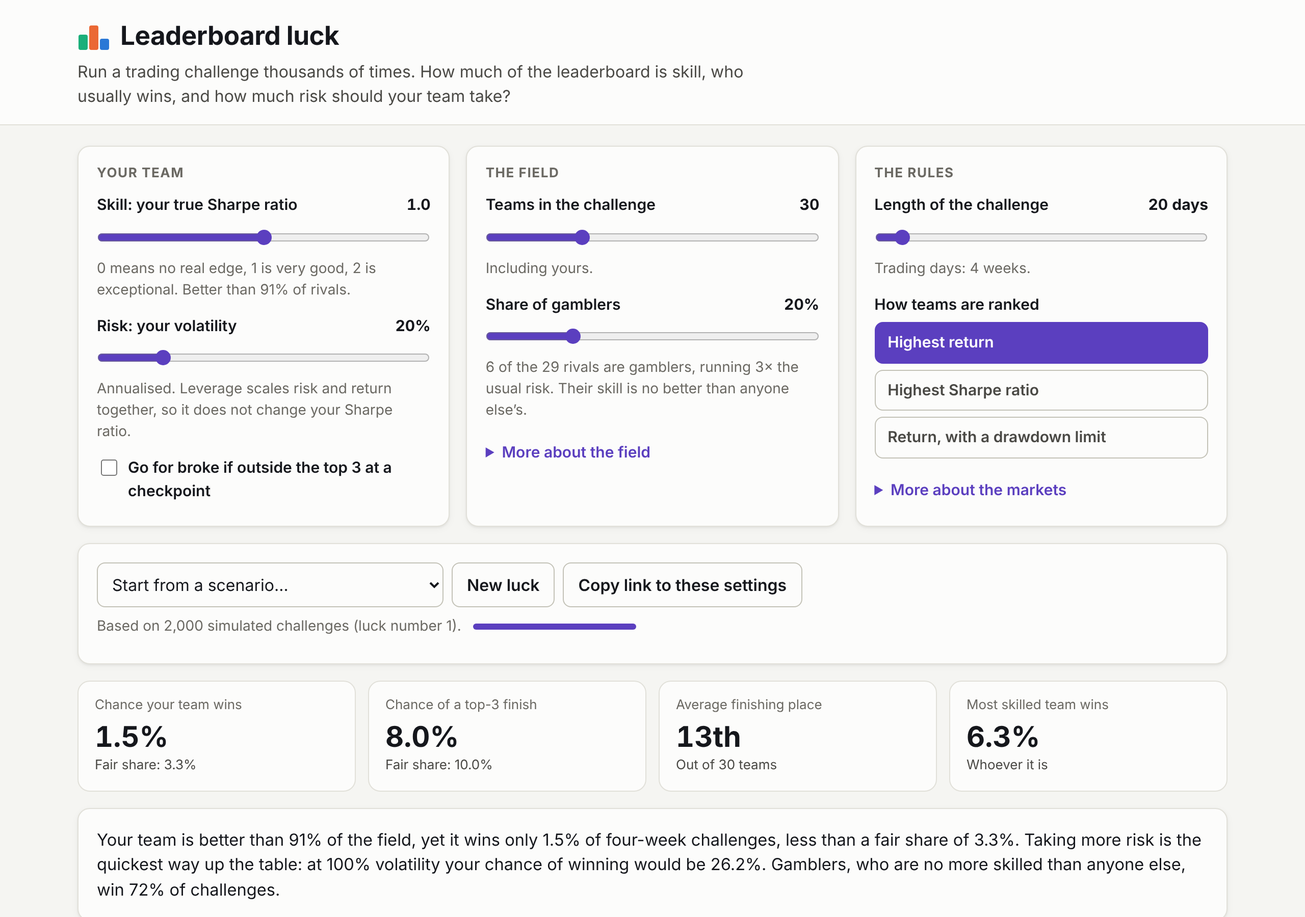
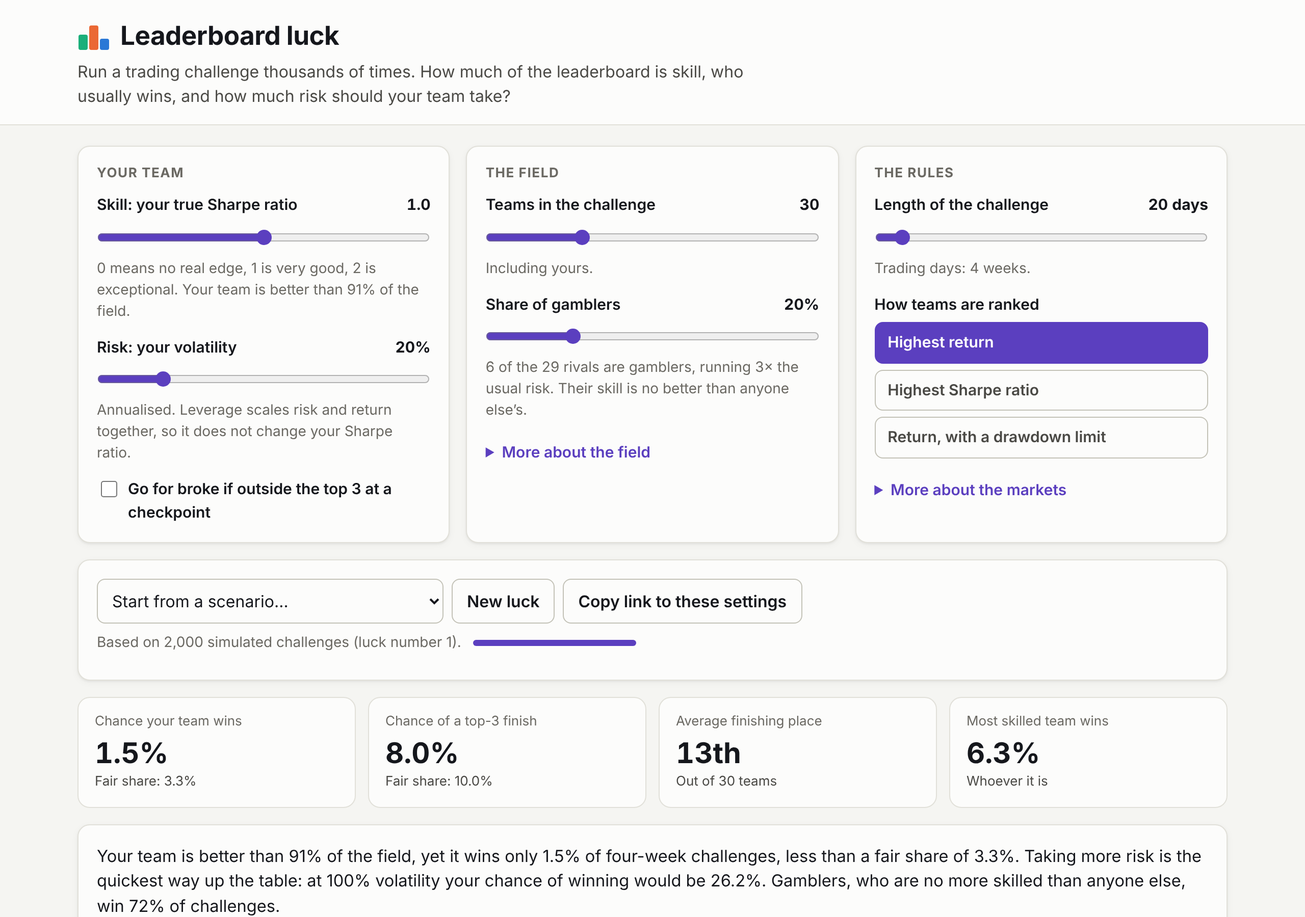
Extra audit: status under team names on phones, no ignored or abbreviated flags, luck number in every report, wording for extreme skill settings and loose drawdown limits

diff --git a/examples/design-report.html b/examples/design-report.html
@@ -25,10 +25,10 @@ li { margin-bottom: 6px; }
 </style></head>
 <body><main>
 <h1>How long before skill shows?</h1>
-<p class="lede">Each scoring rule simulated 400 times at seven lengths, from one week to a year of trading days.
+<p class="lede">Each scoring rule simulated 400 times (luck number 1) at seven lengths, from one week to a year of trading days.
 "Most skilled team wins" is how often the team with the highest true Sharpe ratio finishes first. Rank correlation
 measures how closely the whole final table follows true skill: 0 is pure luck, 1 is a perfect match.</p>
-<div class="card"><h2>What the numbers say</h2><ul><li>Ranking on Sharpe ratio picked out the most skilled team most often at 7 of the 7 lengths tested.</li><li>Over a year, the most skilled team won only 27% of challenges under the best rule, and final places matched true skill with a rank correlation of 0.64 (1 would be perfect).</li><li>Over four weeks, gamblers won 69% of return-ranked challenges against 17% ranked on Sharpe ratio, and the winner had no real edge in 34% of return-ranked ones.</li></ul></div>
+<div class="card"><h2>What the numbers say</h2><ul><li>Ranking on Sharpe ratio picked out the most skilled team most often at all 7 lengths tested.</li><li>Over a year, the most skilled team won only 27% of challenges under the best rule, and final places matched true skill with a rank correlation of 0.64 (1 would be perfect).</li><li>Over four weeks, gamblers won 69% of return-ranked challenges against 17% ranked on Sharpe ratio, and the winner had no real edge in 34% of return-ranked ones.</li></ul></div>
 <div class="card"><div class="legend"><span><i style="background:#6250d6"></i>Return</span><span><i style="background:#008300"></i>Sharpe ratio</span><span><i style="background:#e87ba4"></i>Return, 15% drawdown limit</span></div>
 <div class="grid"><div><h2>Most skilled team wins</h2><svg viewBox="0 0 460 240" width="100%" role="img" aria-label="Chance the most skilled team wins. Return: 1 week 0.04, 2 weeks 0.05, 4 weeks 0.07, 8 weeks 0.06, 12 weeks 0.11, 6 months 0.12, 1 year 0.18; Sharpe ratio: 1 week 0.06, 2 weeks 0.07, 4 weeks 0.08, 8 weeks 0.11, 12 weeks 0.14, 6 months 0.16, 1 year 0.27; Return, 15% drawdown limit: 1 week 0.04, 2 weeks 0.05, 4 weeks 0.07, 8 weeks 0.07, 12 weeks 0.14, 6 months 0.14, 1 year 0.21"><line x1="46" x2="438" y1="204.0" y2="204.0" stroke="var(--line)"/><text x="40" y="208.0" text-anchor="end">0%</text><line x1="46" x2="438" y1="156.0" y2="156.0" stroke="var(--line)"/><text x="40" y="160.0" text-anchor="end">10%</text><line x1="46" x2="438" y1="108.0" y2="108.0" stroke="var(--line)"/><text x="40" y="112.0" text-anchor="end">20%</text><line x1="46" x2="438" y1="60.0" y2="60.0" stroke="var(--line)"/><text x="40" y="64.0" text-anchor="end">30%</text><line x1="46" x2="438" y1="12.0" y2="12.0" stroke="var(--line)"/><text x="40" y="16.0" text-anchor="end">40%</text><text x="46.0" y="222" text-anchor="middle">1 week</text><text x="111.3" y="222" text-anchor="middle">2 weeks</text><text x="176.7" y="222" text-anchor="middle">4 weeks</text><text x="242.0" y="222" text-anchor="middle">8 weeks</text><text x="307.3" y="222" text-anchor="middle">12 weeks</text><text x="372.7" y="222" text-anchor="middle">6 months</text><text x="438.0" y="222" text-anchor="middle">1 year</text><path d="M46.0 182.4 L111.3 181.2 L176.7 170.4 L242.0 175.2 L307.3 152.4 L372.7 148.8 L438.0 115.2" fill="none" stroke="#6250d6" stroke-width="2.5"/><circle cx="46.0" cy="182.4" r="3.5" fill="#6250d6"><title>Return, 1 week: 0.045</title></circle><circle cx="111.3" cy="181.2" r="3.5" fill="#6250d6"><title>Return, 2 weeks: 0.048</title></circle><circle cx="176.7" cy="170.4" r="3.5" fill="#6250d6"><title>Return, 4 weeks: 0.070</title></circle><circle cx="242.0" cy="175.2" r="3.5" fill="#6250d6"><title>Return, 8 weeks: 0.060</title></circle><circle cx="307.3" cy="152.4" r="3.5" fill="#6250d6"><title>Return, 12 weeks: 0.107</title></circle><circle cx="372.7" cy="148.8" r="3.5" fill="#6250d6"><title>Return, 6 months: 0.115</title></circle><circle cx="438.0" cy="115.2" r="3.5" fill="#6250d6"><title>Return, 1 year: 0.185</title></circle><path d="M46.0 176.4 L111.3 172.8 L176.7 164.4 L242.0 151.2 L307.3 134.4 L372.7 128.4 L438.0 75.6" fill="none" stroke="#008300" stroke-width="2.5"/><circle cx="46.0" cy="176.4" r="3.5" fill="#008300"><title>Sharpe ratio, 1 week: 0.058</title></circle><circle cx="111.3" cy="172.8" r="3.5" fill="#008300"><title>Sharpe ratio, 2 weeks: 0.065</title></circle><circle cx="176.7" cy="164.4" r="3.5" fill="#008300"><title>Sharpe ratio, 4 weeks: 0.083</title></circle><circle cx="242.0" cy="151.2" r="3.5" fill="#008300"><title>Sharpe ratio, 8 weeks: 0.110</title></circle><circle cx="307.3" cy="134.4" r="3.5" fill="#008300"><title>Sharpe ratio, 12 weeks: 0.145</title></circle><circle cx="372.7" cy="128.4" r="3.5" fill="#008300"><title>Sharpe ratio, 6 months: 0.158</title></circle><circle cx="438.0" cy="75.6" r="3.5" fill="#008300"><title>Sharpe ratio, 1 year: 0.268</title></circle><path d="M46.0 182.4 L111.3 181.2 L176.7 169.2 L242.0 169.2 L307.3 136.8 L372.7 139.2 L438.0 103.2" fill="none" stroke="#e87ba4" stroke-width="2.5"/><circle cx="46.0" cy="182.4" r="3.5" fill="#e87ba4"><title>Return, 15% drawdown limit, 1 week: 0.045</title></circle><circle cx="111.3" cy="181.2" r="3.5" fill="#e87ba4"><title>Return, 15% drawdown limit, 2 weeks: 0.048</title></circle><circle cx="176.7" cy="169.2" r="3.5" fill="#e87ba4"><title>Return, 15% drawdown limit, 4 weeks: 0.072</title></circle><circle cx="242.0" cy="169.2" r="3.5" fill="#e87ba4"><title>Return, 15% drawdown limit, 8 weeks: 0.072</title></circle><circle cx="307.3" cy="136.8" r="3.5" fill="#e87ba4"><title>Return, 15% drawdown limit, 12 weeks: 0.140</title></circle><circle cx="372.7" cy="139.2" r="3.5" fill="#e87ba4"><title>Return, 15% drawdown limit, 6 months: 0.135</title></circle><circle cx="438.0" cy="103.2" r="3.5" fill="#e87ba4"><title>Return, 15% drawdown limit, 1 year: 0.210</title></circle></svg></div>
 <div><h2>Rank correlation with true skill</h2><svg viewBox="0 0 460 240" width="100%" role="img" aria-label="Rank correlation between true skill and final place. Return: 1 week 0.10, 2 weeks 0.14, 4 weeks 0.22, 8 weeks 0.30, 12 weeks 0.36, 6 months 0.47, 1 year 0.60; Sharpe ratio: 1 week 0.10, 2 weeks 0.16, 4 weeks 0.23, 8 weeks 0.32, 12 weeks 0.38, 6 months 0.50, 1 year 0.64; Return, 15% drawdown limit: 1 week 0.10, 2 weeks 0.14, 4 weeks 0.21, 8 weeks 0.27, 12 weeks 0.30, 6 months 0.33, 1 year 0.33"><line x1="46" x2="438" y1="204.0" y2="204.0" stroke="var(--line)"/><text x="40" y="208.0" text-anchor="end">0</text><line x1="46" x2="438" y1="156.0" y2="156.0" stroke="var(--line)"/><text x="40" y="160.0" text-anchor="end">0.2</text><line x1="46" x2="438" y1="108.0" y2="108.0" stroke="var(--line)"/><text x="40" y="112.0" text-anchor="end">0.4</text><line x1="46" x2="438" y1="60.0" y2="60.0" stroke="var(--line)"/><text x="40" y="64.0" text-anchor="end">0.6</text><line x1="46" x2="438" y1="12.0" y2="12.0" stroke="var(--line)"/><text x="40" y="16.0" text-anchor="end">0.8</text><text x="46.0" y="222" text-anchor="middle">1 week</text><text x="111.3" y="222" text-anchor="middle">2 weeks</text><text x="176.7" y="222" text-anchor="middle">4 weeks</text><text x="242.0" y="222" text-anchor="middle">8 weeks</text><text x="307.3" y="222" text-anchor="middle">12 weeks</text><text x="372.7" y="222" text-anchor="middle">6 months</text><text x="438.0" y="222" text-anchor="middle">1 year</text><path d="M46.0 179.7 L111.3 169.6 L176.7 152.4 L242.0 131.6 L307.3 118.2 L372.7 90.7 L438.0 60.6" fill="none" stroke="#6250d6" stroke-width="2.5"/><circle cx="46.0" cy="179.7" r="3.5" fill="#6250d6"><title>Return, 1 week: 0.101</title></circle><circle cx="111.3" cy="169.6" r="3.5" fill="#6250d6"><title>Return, 2 weeks: 0.143</title></circle><circle cx="176.7" cy="152.4" r="3.5" fill="#6250d6"><title>Return, 4 weeks: 0.215</title></circle><circle cx="242.0" cy="131.6" r="3.5" fill="#6250d6"><title>Return, 8 weeks: 0.302</title></circle><circle cx="307.3" cy="118.2" r="3.5" fill="#6250d6"><title>Return, 12 weeks: 0.358</title></circle><circle cx="372.7" cy="90.7" r="3.5" fill="#6250d6"><title>Return, 6 months: 0.472</title></circle><circle cx="438.0" cy="60.6" r="3.5" fill="#6250d6"><title>Return, 1 year: 0.598</title></circle><path d="M46.0 179.0 L111.3 165.9 L176.7 148.8 L242.0 127.7 L307.3 112.4 L372.7 83.7 L438.0 50.8" fill="none" stroke="#008300" stroke-width="2.5"/><circle cx="46.0" cy="179.0" r="3.5" fill="#008300"><title>Sharpe ratio, 1 week: 0.104</title></circle><circle cx="111.3" cy="165.9" r="3.5" fill="#008300"><title>Sharpe ratio, 2 weeks: 0.159</title></circle><circle cx="176.7" cy="148.8" r="3.5" fill="#008300"><title>Sharpe ratio, 4 weeks: 0.230</title></circle><circle cx="242.0" cy="127.7" r="3.5" fill="#008300"><title>Sharpe ratio, 8 weeks: 0.318</title></circle><circle cx="307.3" cy="112.4" r="3.5" fill="#008300"><title>Sharpe ratio, 12 weeks: 0.382</title></circle><circle cx="372.7" cy="83.7" r="3.5" fill="#008300"><title>Sharpe ratio, 6 months: 0.501</title></circle><circle cx="438.0" cy="50.8" r="3.5" fill="#008300"><title>Sharpe ratio, 1 year: 0.638</title></circle><path d="M46.0 179.8 L111.3 169.8 L176.7 153.5 L242.0 139.6 L307.3 131.3 L372.7 124.3 L438.0 125.0" fill="none" stroke="#e87ba4" stroke-width="2.5"/><circle cx="46.0" cy="179.8" r="3.5" fill="#e87ba4"><title>Return, 15% drawdown limit, 1 week: 0.101</title></circle><circle cx="111.3" cy="169.8" r="3.5" fill="#e87ba4"><title>Return, 15% drawdown limit, 2 weeks: 0.143</title></circle><circle cx="176.7" cy="153.5" r="3.5" fill="#e87ba4"><title>Return, 15% drawdown limit, 4 weeks: 0.210</title></circle><circle cx="242.0" cy="139.6" r="3.5" fill="#e87ba4"><title>Return, 15% drawdown limit, 8 weeks: 0.268</title></circle><circle cx="307.3" cy="131.3" r="3.5" fill="#e87ba4"><title>Return, 15% drawdown limit, 12 weeks: 0.303</title></circle><circle cx="372.7" cy="124.3" r="3.5" fill="#e87ba4"><title>Return, 15% drawdown limit, 6 months: 0.332</title></circle><circle cx="438.0" cy="125.0" r="3.5" fill="#e87ba4"><title>Return, 15% drawdown limit, 1 year: 0.329</title></circle></svg></div></div></div>

diff --git a/app/index.html b/app/index.html
@@ -181,9 +181,10 @@ table.data tr.you td, table.data tr.you th { background: var(--accent-soft); fon
 @media (max-width: 600px) {
   #sample-table .wide-col { display: none; }
   #sample-table td, #sample-table th { padding: 6px 5px; }
-  #sample-table td:last-child, #sample-table th:last-child { min-width: 0; }
+  #sample-table .status-note { display: block; }
 }
 .kind { display: inline-flex; align-items: center; gap: 6px; }
+.status-note { display: none; font-size: 0.8125rem; font-weight: 400; color: var(--ink-2); white-space: normal; }
 details.more summary { cursor: pointer; color: var(--accent); font-weight: 600; }
 .stale #results, .stale-chart { opacity: 0.55; transition: opacity 0.2s; }
 .prose { max-width: 72ch; }
@@ -1054,7 +1055,7 @@ if (typeof module !== 'undefined' && module.exports) {
   var SLIDERS = [
     { key: 'yourSharpe', group: 'you', label: 'Skill: your true Sharpe ratio', min: -1, max: 3, step: 0.1,
       fmt: function (v) { return v.toFixed(1); },
-      hint: function () { return '0 means no real edge, 1 is very good, 2 is exceptional. Better than ' + pct(M.skillPercentile(params)) + ' of rivals.'; } },
+      hint: function () { return '0 means no real edge, 1 is very good, 2 is exceptional. Your team is ' + standing(params, M.skillPercentile(params)) + '.'; } },
     { key: 'yourVol', group: 'you', label: 'Risk: your volatility', min: 0.02, max: 1, step: 0.01,
       fmt: function (v) { return pct(v); },
       hint: function () { return 'Annualised. Leverage scales risk and return together, so it does not change your Sharpe ratio.'; } },
@@ -1424,20 +1425,28 @@ if (typeof module !== 'undefined' && module.exports) {
     drawWinners(r);
   }
 
+  // Where your team's skill stands against the rivals', in words.
+  function standing(p, share) {
+    if (p.skillSpread === 0) {
+      return p.yourSharpe > 0 ? 'better than every rival' : (p.yourSharpe < 0 ? 'weaker than every rival' : 'exactly as skilled as every rival');
+    }
+    if (share >= 0.5) return 'better than ' + (share >= 0.995 ? 'over 99%' : pct(share)) + ' of the field';
+    return 'weaker than ' + (share <= 0.005 ? 'over 99%' : pct(1 - share)) + ' of the field';
+  }
+
   function insightText(r) {
     var p = r.params;
     var parts = [];
     var fair = 1 / p.teams;
     var wins = pct(r.you.pWin, 1) + ' of ' + lengthAdjective(p.days) + ' challenges';
-    if (r.skillPercentile < 0.5) {
-      parts.push('Your team is weaker than ' + pct(1 - r.skillPercentile) + ' of the field and wins ' + wins +
-        ' (a fair share would be ' + pct(fair, 1) + ').');
+    var lead = 'Your team is ' + standing(p, r.skillPercentile);
+    var strong = p.skillSpread === 0 ? p.yourSharpe > 0 : r.skillPercentile >= 0.5;
+    if (!strong) {
+      parts.push(lead + ' and wins ' + wins + ' (a fair share would be ' + pct(fair, 1) + ').');
     } else if (r.you.pWin < fair) {
-      parts.push('Your team is better than ' + pct(r.skillPercentile) + ' of the field, yet it wins only ' + wins +
-        ', less than a fair share of ' + pct(fair, 1) + '.');
+      parts.push(lead + ', yet it wins only ' + wins + ', less than a fair share of ' + pct(fair, 1) + '.');
     } else {
-      parts.push('Your team is better than ' + pct(r.skillPercentile) + ' of the field and wins ' + wins +
-        ', against a fair share of ' + pct(fair, 1) + '.');
+      parts.push(lead + ' and wins ' + wins + ', against a fair share of ' + pct(fair, 1) + '.');
     }
     var chances = r.curve.map(function (c) { return c.pWin; });
     var flat = Math.max.apply(null, chances) - Math.min.apply(null, chances) < 1e-9;
@@ -1447,8 +1456,8 @@ if (typeof module !== 'undefined' && module.exports) {
     } else if (r.bestVol > p.yourVol + 0.04 && r.bestPWin > r.you.pWin + 0.005) {
       parts.push('Taking more risk is the quickest way up the table: at ' + pct(r.bestVol) + ' volatility your chance of winning would be ' +
         pct(r.bestPWin, 1) + '.');
-      if (p.rule === 'drawdown') {
-        var best = r.curve.filter(function (c) { return c.vol === r.bestVol; })[0];
+      var best = r.curve.filter(function (c) { return c.vol === r.bestVol; })[0];
+      if (p.rule === 'drawdown' && best.pOut >= 0.005) {
         parts.push('At that risk the drawdown limit would knock your team out of ' + pct(best.pOut) + ' of challenges' +
           (r.bestVol < M.VOL_GRID[M.VOL_GRID.length - 1] ? ', and beyond it knockouts cost more than the extra risk gains.' : '.'));
       }
@@ -1630,7 +1639,7 @@ if (typeof module !== 'undefined' && module.exports) {
     var sx = function (d) { return m.l + (W - m.l - m.r) * d / p.days; };
     var sy = function (v) { return H - m.b - (H - m.t - m.b) * (v - lo) / (hi - lo); };
     var s = svgEl('svg', { viewBox: '0 0 ' + W + ' ' + H, width: W, height: H, role: 'img',
-      'aria-label': 'Account value over the challenge for the top five teams and yours. Open circles mark teams going for broke. Full results are in the table below.' });
+      'aria-label': 'Account value over the challenge for the top five teams and yours. Open circles mark teams going for broke. The top ten and your team are in the table below.' });
     var nTicks = Math.round((hi - lo) / tick);
     for (var i = 0; i <= nTicks; i++) {
       var v = lo + tick * i;
@@ -1664,7 +1673,7 @@ if (typeof module !== 'undefined' && module.exports) {
     var head = el('thead');
     var hr = el('tr');
     ['Place', 'Team', 'Type', 'True skill', 'Risk', 'Return', 'Worst drawdown', 'Status'].forEach(function (h, i) {
-      hr.appendChild(el('th', (i === 2 || i === 4 || i === 6) ? { scope: 'col', class: 'wide-col' } : { scope: 'col' }, h));
+      hr.appendChild(el('th', (i === 2 || i === 4 || i === 6 || i === 7) ? { scope: 'col', class: 'wide-col' } : { scope: 'col' }, h));
     });
     head.appendChild(hr);
     t.appendChild(head);
@@ -1698,7 +1707,9 @@ if (typeof module !== 'undefined' && module.exports) {
       tr.appendChild(el('td', { class: 'wide-col' }, pct(x.maxDD, 1)));
       var status = x.bust ? 'Blown up' : (x.out ? 'Out: drawdown' : '');
       if (x.switchDay !== null) status = (status ? status + '; ' : '') + 'went for broke on day ' + x.switchDay;
-      tr.appendChild(el('td', {}, status));
+      tr.appendChild(el('td', { class: 'wide-col' }, status));
+      // On phones the Status column is hidden, so the status sits under the team's name instead.
+      if (status) nameCell.appendChild(el('span', { class: 'status-note' }, status));
       body.appendChild(tr);
     });
     t.appendChild(body);

diff --git a/leaderboard_luck/__main__.py b/leaderboard_luck/__main__.py
@@ -15,7 +15,7 @@ from .report import sample_report, simulate_report
 
 FLAGS = {
     "teams": ("--teams", int, "teams in the challenge, including yours"),
-    "days": ("--days", int, "length of the challenge in trading days (5 a week, 250 a year)"),
+    "days": ("--days", int, "length of the challenge in trading days, 5 a week and 250 a year"),
     "skillSpread": ("--skill-spread", float, "spread of rivals' true Sharpe ratios around zero"),
     "fieldVol": ("--field-vol", float, "typical rival volatility as a fraction, 0.2 meaning 20 per cent a year"),
     "gamblers": ("--gamblers", float, "share of rivals who are gamblers, as a fraction"),
@@ -73,17 +73,17 @@ def warn_if_clamped(p: dict) -> None:
 
 
 def build_parser() -> argparse.ArgumentParser:
-    parser = argparse.ArgumentParser(prog="python -m leaderboard_luck",
+    parser = argparse.ArgumentParser(prog="python -m leaderboard_luck", allow_abbrev=False,
                                      description="How much of a trading-challenge leaderboard is skill?")
     sub = parser.add_subparsers(dest="command", required=True)
-    s = sub.add_parser("simulate", help="simulate many challenges and report your team's chances")
+    s = sub.add_parser("simulate", allow_abbrev=False, help="simulate many challenges and report your team's chances")
     add_settings(s, "simulate")
     s.add_argument("--json", action="store_true", help="print the full result as JSON")
-    c = sub.add_parser("sample", help="show one simulated challenge, place by place")
+    c = sub.add_parser("sample", allow_abbrev=False, help="show one simulated challenge, place by place")
     add_settings(c, "sample")
     c.add_argument("--index", type=int, default=0, metavar="N", help="which challenge, counting from 0 (default 0)")
     c.add_argument("--top", type=int, default=10, metavar="N", help="how many places to show, plus your team; 0 shows every team (default 10)")
-    d = sub.add_parser("design", help="compare scoring rules and challenge lengths (the organiser's view)")
+    d = sub.add_parser("design", allow_abbrev=False, help="compare scoring rules and challenge lengths (the organiser's view)")
     add_settings(d, "design")
     d.add_argument("--sims-each", type=int, default=400, metavar="N", help="challenges per rule and length (default 400)")
     d.add_argument("--workers", type=int, default=os.cpu_count() or 1, metavar="N",
@@ -118,7 +118,11 @@ def main(argv: list[str] | None = None) -> int:
                 Path(args.html).write_text(design_html(params, rows, args.sims_each), encoding="utf-8")
                 print(f"Wrote {args.html}")
     except ValueError as exc:
-        print(f"error: {exc}", file=sys.stderr)
+        message = str(exc)
+        for key, (flag, _, _) in FLAGS.items():
+            if message.startswith(key + " "):
+                message = flag + message[len(key):]
+        print(f"error: {message}", file=sys.stderr)
         return 2
     return 0
 

diff --git a/leaderboard_luck/report.py b/leaderboard_luck/report.py
@@ -34,6 +34,17 @@ def ordinal(n: int) -> str:
     return f"{n}{SUFFIXES.get(n % 10, 'th')}"
 
 
+def standing(p: dict, share: float) -> str:
+    """Where your team's skill stands against the rivals', in words (as in the browser app)."""
+    if p["skillSpread"] == 0:
+        if p["yourSharpe"] > 0:
+            return "better than every rival"
+        return "weaker than every rival" if p["yourSharpe"] < 0 else "exactly as skilled as every rival"
+    if share >= 0.5:
+        return "better than " + ("over 99%" if share >= 0.995 else pct(share, 0)) + " of the field"
+    return "weaker than " + ("over 99%" if share <= 0.005 else pct(1 - share, 0)) + " of the field"
+
+
 def rule_words(p: dict) -> str:
     """The scoring rule in the middle of a sentence, e.g. "highest Sharpe ratio"."""
     label = RULE_LABELS[p["rule"]]
@@ -53,8 +64,9 @@ def describe(p: dict, every_length: bool = False) -> list[str]:
         first,
         f"  Your team: true Sharpe {p['yourSharpe']:.2f} at {pct(p['yourVol'], 0)} volatility",
         f"  Rivals: skill spread {p['skillSpread']:.2f}, typical risk {pct(p['fieldVol'], 0)}, "
-        f"{n_gamblers} gambler{'' if n_gamblers == 1 else 's'} at {p['gamblerMultiple']:g}x risk, "
-        f"market correlation {p['correlation']:.2f}" + (", fat tails" if p["fatTails"] else ""),
+        + (f"{n_gamblers} gambler{'' if n_gamblers == 1 else 's'} at {p['gamblerMultiple']:g}x risk, " if n_gamblers
+           else "no gamblers, ")
+        + f"market correlation {p['correlation']:.2f}" + (", fat tails" if p["fatTails"] else ""),
     ]
     if p["catchUp"] or p["rivalsCatchUp"] > 0:
         when = f"{pct(p['checkpoint'], 0)} of the way through" if every_length else f"day {checkpoint_day(p)}"
@@ -73,7 +85,7 @@ def simulate_report(r: dict) -> str:
     lines = ["Leaderboard luck", ""] + describe(p) + [
         f"  {r['sims']:,} simulated challenges, luck number {p['seed']}",
         "",
-        f"  Your team is better than {pct(r['skillPercentile'], 0)} of the field.",
+        f"  Your team is {standing(p, r['skillPercentile'])}.",
         f"  Chance of winning       {pct(you['pWin']):>7}   (fair share {pct(1 / p['teams'])})",
         f"  Chance of a top 3       {pct(you['pTop3']):>7}",
         f"  Average finishing place {you['meanRank']:>7.1f}",
@@ -104,7 +116,7 @@ def sample_report(params: dict, k: int, top: int = 10) -> str:
     p = normalise(params)
     teams = sample_competition(p, k)
     top = top if top > 0 else len(teams)
-    lines = [f"Challenge number {k + 1}", "", *describe(p), "",
+    lines = [f"Challenge number {k + 1}", "", *describe(p), f"  Luck number {p['seed']}", "",
              f"  {'Place':<7}{'Team':<12}{'Type':<9}{'Skill':>7}{'Risk':>9}{'Return':>9}{'Drawdown':>10}  Status"]
     shown = [t for t in teams if t["rank"] <= top]
     you = next(t for t in teams if t["you"])

diff --git a/leaderboard_luck/design.py b/leaderboard_luck/design.py
@@ -41,8 +41,8 @@ def findings(rows: list[dict]) -> list[str]:
         best_rule_each.append(max(RULES, key=lambda rule: (by[(rule, days)]["pBestWins"], -RULES.index(rule))))
     winners = {rule: best_rule_each.count(rule) for rule in RULES}
     top = max(RULES, key=lambda rule: winners[rule])
-    out.append(f"Ranking on {IN_A_SENTENCE[top]} picked out the most skilled team most often at "
-               f"{winners[top]} of the {len(DURATIONS)} lengths tested.")
+    count = f"all {len(DURATIONS)}" if winners[top] == len(DURATIONS) else f"{winners[top]} of the {len(DURATIONS)}"
+    out.append(f"Ranking on {IN_A_SENTENCE[top]} picked out the most skilled team most often at {count} lengths tested.")
     year = {rule: by[(rule, DURATIONS[-1])] for rule in RULES}
     best_year = max(RULES, key=lambda rule: year[rule]["pBestWins"])
     share = year[best_year]["pBestWins"]
@@ -61,7 +61,7 @@ def design_report(params: dict, rows: list[dict], sims_each: int) -> str:
     by = _by(rows)
     names = short_names(params)
     lines = ["Leaderboard luck: how long before skill shows?", ""] + describe(params, every_length=True) + [
-        f"  {sims_each:,} simulated challenges for each rule and length", "",
+        f"  {sims_each:,} simulated challenges for each rule and length, luck number {params['seed']}", "",
         "  Chance the most skilled team wins (rank correlation between true skill and final place):",
         "  " + f"{'Length':<10}" + "".join(f"{names[r]:>30}" for r in RULES)]
     for days in DURATIONS:
@@ -168,7 +168,7 @@ def design_html(params: dict, rows: list[dict], sims_each: int) -> str:
 <title>Leaderboard luck: how long before skill shows?</title><style>{CSS}</style></head>
 <body><main>
 <h1>How long before skill shows?</h1>
-<p class="lede">Each scoring rule simulated {sims_each:,} times at seven lengths, from one week to a year of trading days.
+<p class="lede">Each scoring rule simulated {sims_each:,} times (luck number {params["seed"]}) at seven lengths, from one week to a year of trading days.
 "Most skilled team wins" is how often the team with the highest true Sharpe ratio finishes first. Rank correlation
 measures how closely the whole final table follows true skill: 0 is pure luck, 1 is a perfect match.</p>
 <div class="card"><h2>What the numbers say</h2><ul>{found}</ul></div>

diff --git a/README.md b/README.md
@@ -122,10 +122,10 @@ The Python suite needs nothing beyond the standard library. Some tests are skipp
 
 | Part | Language | Lines | What it does |
 |---|---|---|---|
-| `app/index.html`, layout and styles | HTML and CSS | 337 | Page structure, light and dark themes, phone layout |
+| `app/index.html`, layout and styles | HTML and CSS | 338 | Page structure, light and dark themes, phone layout |
 | `app/index.html`, model | JavaScript | 636 | The simulation, between `/* MODEL START */` and `/* MODEL END */`, also loadable in Node |
-| `app/index.html`, interface | JavaScript | 763 | Sliders, presets, charts in SVG, chunked runs that keep the page responsive, shareable links |
-| `leaderboard_luck/` | Python | 1,026 | A line-for-line port of the model, the command line, text and JSON reports, and the organiser's design report |
+| `app/index.html`, interface | JavaScript | 773 | Sliders, presets, charts in SVG, chunked runs that keep the page responsive, shareable links |
+| `leaderboard_luck/` | Python | 1,042 | A line-for-line port of the model, the command line, text and JSON reports, and the organiser's design report |
 | `tests/*.py` | Python | 547 | Model, command line, cross-language agreement and browser tests |
 | `tests/*.js` | JavaScript | 210 | Node tests of the app's model, and the harness the agreement tests use |
 
